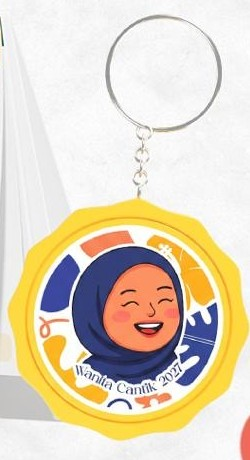
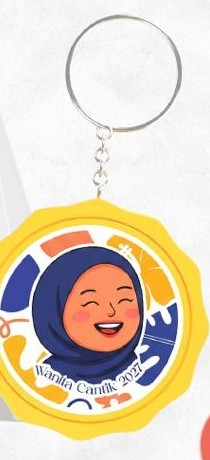
Tambah GIF animasi dan animasi CSS di seluruh laman
GIF produk berkilau, clicker berayun, 4 ikon ciri beranimasi
(dijana oleh tools/make_gifs.py), serta animasi muncul bila skrol,
butang berdenyut, ticker harga dan emoji bergoyang.

Claude-Session: https://claude.ai/code/session_01E2GRzDsEKBQ2HghrFBztbq

diff --git a/index.html b/index.html
@@ -36,7 +36,7 @@
       <h1>Satu kalendar.<br>Semua tarikh penting <span class="script">anda.</span></h1>
       <p class="lead">Haid, qada puasa, cuti sekolah anak, amalan harian, tarikh Hijrah — semuanya tersusun cantik atas meja. Tak perlu lagi buka lima app dan tiga nota untuk ingat satu benda.</p>
       <div class="hero-cta">
-        <a href="#tempah" class="btn">Tempah Combo RM47</a>
+        <a href="#tempah" class="btn pulse">Tempah Combo RM47</a>
         <a href="#kenapa" class="btn btn-ghost">Kenapa kalendar ni?</a>
       </div>
       <ul class="chips">
@@ -47,7 +47,7 @@
       </ul>
     </div>
     <div class="hero-img">
-      <img src="assets/produk.jpg" alt="Kalendar meja Wanita Cantik 2027 bersama keychain clicker" width="790" height="495">
+      <img src="assets/produk.gif" alt="Kalendar meja Wanita Cantik 2027 bersama keychain clicker" width="560" height="351">
       <div class="tag">Cantik luar,<br>tenang dalam.</div>
     </div>
   </div>
@@ -73,7 +73,7 @@
     <h2>Masalahnya bukan anda tak ambil berat.</h2>
     <p>Masalahnya, maklumat penting anda <strong>bersepah</strong>. Haid dalam satu app. Cuti sekolah dalam screenshot grup. Tarikh Hijrah kena Google. Amalan? Dalam kepala je.</p>
     <p>Dan bila semua bersepah, yang jadi mangsa ialah benda paling penting — <strong>ibadah yang tertangguh, qada yang terlupa, rancangan keluarga yang berlanggar.</strong> Setiap tahun azam sama, setiap tahun rasa bersalah yang sama.</p>
-    <p class="hit">2027 tak perlu jadi macam tu lagi.</p>
+    <p class="hit">2027 tak perlu jadi macam tu lagi. <span class="bounce">👇</span></p>
   </div>
 </section>
 
@@ -86,22 +86,22 @@
 
     <div class="features">
       <article class="feat f-coral">
-        <div class="num">01</div>
+        <img class="ico" src="assets/ic-haid.gif" alt="" width="112" height="112" loading="lazy"><div class="num">01</div>
         <h3>Tracker Haid</h3>
         <p>Tanda kitaran terus atas kalendar. Senang kira hari suci, senang jawab soalan doktor, senang kira hutang puasa.</p>
       </article>
       <article class="feat f-green">
-        <div class="num">02</div>
+        <img class="ico" src="assets/ic-cuti.gif" alt="" width="112" height="112" loading="lazy"><div class="num">02</div>
         <h3>Cuti Umum, Negeri &amp; Sekolah</h3>
         <p>Semua cuti 2027 dah siap ditanda. Rancang balik kampung, percutian dan cuti kerja tanpa berlanggar jadual anak.</p>
       </article>
       <article class="feat f-blue">
-        <div class="num">03</div>
+        <img class="ico" src="assets/ic-mutabaah.gif" alt="" width="112" height="112" loading="lazy"><div class="num">03</div>
         <h3>Mutabaah Amal</h3>
         <p>Semak amalan harian — solat, bacaan Quran, zikir, sedekah. Nampak progress depan mata, lebih mudah istiqamah.</p>
       </article>
       <article class="feat f-gold">
-        <div class="num">04</div>
+        <img class="ico" src="assets/ic-hijrah.gif" alt="" width="112" height="112" loading="lazy"><div class="num">04</div>
         <h3>Tarikh Hijrah</h3>
         <p>Tarikh Masihi &amp; Hijrah sebelah-menyebelah. Tak terlepas puasa sunat, Ayyamul Bidh dan hari kebesaran Islam.</p>
       </article>
@@ -135,7 +135,7 @@
       <p>Keychain clicker comel dengan watak Wanita Cantik — sangkut di beg atau kunci, sentiasa ada bila diperlukan. Padankan dengan Mutabaah Amal dalam kalendar untuk rutin harian yang lebih bermakna.</p>
       <p class="price-inline">Beli asing RM17 — <strong>atau dapat lebih jimat dalam Combo.</strong></p>
     </div>
-    <div class="clicker-img"><img src="assets/clicker.jpg" alt="Keychain clicker Wanita Cantik 2027" width="250" height="460" loading="lazy"></div>
+    <div class="clicker-img"><img src="assets/clicker.gif" alt="Keychain clicker Wanita Cantik 2027 berayun" width="260" height="414" loading="lazy"></div>
   </div>
 </section>
 
@@ -144,6 +144,7 @@
   <div class="wrap">
     <p class="eyebrow center">Senarai Harga</p>
     <h2 class="center">Pilih pakej anda</h2>
+    <div class="ticker" aria-hidden="true"><span>🌺 Combo jimat RM5 · 📅 Kalendar 2027 · 📿 Mutabaah Amal · 🌙 Tarikh Hijrah · 🎁 Sesuai jadi hadiah · 🌺 Combo jimat RM5 · 📅 Kalendar 2027 · 📿 Mutabaah Amal · 🌙 Tarikh Hijrah · 🎁 Sesuai jadi hadiah · </span></div>
     <div class="plans">
       <div class="plan">
         <h3>Kalendar Meja</h3>
@@ -152,7 +153,7 @@
         <button class="btn btn-ghost pick" data-pkg="kalendar">Pilih Kalendar</button>
       </div>
       <div class="plan best">
-        <div class="ribbon">Paling Laris · Jimat RM5</div>
+        <div class="ribbon">🔥 Paling Laris · Jimat RM5</div>
         <h3>Combo</h3>
         <div class="price"><s>RM52</s><small>RM</small>47</div>
         <ul><li>Kalendar meja 2027</li><li><strong>+ Clicker Wanita Cantik</strong></li><li>Sesuai dibuat hadiah</li></ul>
@@ -238,7 +239,7 @@
   <div class="wrap narrow center">
     <h2>2027 bakal jadi tahun yang lebih <span class="script">tersusun</span>.</h2>
     <p>Mulakan dengan satu kalendar di atas meja anda.</p>
-    <a href="#tempah" class="btn btn-light">Tempah Combo RM47 Sekarang</a>
+    <a href="#tempah" class="btn btn-light pulse">Tempah Combo RM47 Sekarang</a>
   </div>
 </section>
 

diff --git a/style.css b/style.css
@@ -168,3 +168,38 @@ section{padding:80px 0}
   .btn{transition:none}
   .btn:hover{transform:none}
 }
+
+/* ===== Animasi ===== */
+.ico{width:72px;height:72px;border-radius:16px;mix-blend-mode:multiply;margin-bottom:12px}
+.hero-img img{animation:float 5s ease-in-out infinite}
+.chips li{animation:pop .6s cubic-bezier(.2,.9,.3,1.4) both}
+.chips li:nth-child(2){animation-delay:.15s}.chips li:nth-child(3){animation-delay:.3s}.chips li:nth-child(4){animation-delay:.45s}
+.tag{animation:sway 3s ease-in-out infinite}
+.prob span{display:inline-block;animation:wiggle 2.4s ease-in-out infinite}
+.prob:nth-child(2) span{animation-delay:.4s}.prob:nth-child(3) span{animation-delay:.8s}.prob:nth-child(4) span{animation-delay:1.2s}
+.bounce{display:inline-block;animation:bounce 1.2s ease-in-out infinite}
+.pulse{animation:pulse 2s ease-in-out infinite}
+.ribbon{animation:glow 1.8s ease-in-out infinite}
+.wa-float{animation:ring 3s ease-in-out infinite}
+.ticker{overflow:hidden;white-space:nowrap;margin:18px 0 0;font-weight:600;color:var(--green)}
+.ticker span{display:inline-block;animation:marquee 22s linear infinite}
+.feat,.plan,.prob{transition:transform .25s ease,box-shadow .25s ease}
+.feat:hover,.prob:hover{transform:translateY(-6px);box-shadow:0 14px 30px rgba(29,74,55,.12)}
+.reveal{opacity:0;transform:translateY(24px);transition:opacity .7s ease,transform .7s ease}
+.reveal.in{opacity:1;transform:none}
+@media (min-width:900px){.plan.best.reveal.in{transform:scale(1.04)}}
+
+@keyframes float{0%,100%{transform:translateY(0)}50%{transform:translateY(-12px)}}
+@keyframes pop{from{opacity:0;transform:scale(.6)}to{opacity:1;transform:scale(1)}}
+@keyframes sway{0%,100%{transform:rotate(-4deg)}50%{transform:rotate(2deg)}}
+@keyframes wiggle{0%,60%,100%{transform:rotate(0)}70%{transform:rotate(-14deg) scale(1.15)}80%{transform:rotate(12deg) scale(1.15)}90%{transform:rotate(-6deg)}}
+@keyframes bounce{0%,100%{transform:translateY(0)}50%{transform:translateY(8px)}}
+@keyframes pulse{0%,100%{box-shadow:0 0 0 0 rgba(217,38,43,.45)}70%{box-shadow:0 0 0 14px rgba(217,38,43,0)}}
+@keyframes glow{0%,100%{transform:translateX(-50%) scale(1)}50%{transform:translateX(-50%) scale(1.07)}}
+@keyframes ring{0%,85%,100%{transform:rotate(0)}88%{transform:rotate(-15deg)}91%{transform:rotate(15deg)}94%{transform:rotate(-10deg)}97%{transform:rotate(8deg)}}
+@keyframes marquee{from{transform:translateX(0)}to{transform:translateX(-50%)}}
+
+@media (prefers-reduced-motion:reduce){
+  *,*::before,*::after{animation:none!important;transition:none!important}
+  .reveal{opacity:1;transform:none}
+}

diff --git a/script.js b/script.js
@@ -71,3 +71,13 @@
 
   refresh();
 })();
+
+// Animasi muncul bila skrol
+(function () {
+  var els = document.querySelectorAll('.prob, .feat, .plan, .who-img, .clicker-img, .faq details, .ticks li');
+  if (!('IntersectionObserver' in window) || matchMedia('(prefers-reduced-motion: reduce)').matches) return;
+  var io = new IntersectionObserver(function (es) {
+    es.forEach(function (e) { if (e.isIntersecting) { e.target.classList.add('in'); io.unobserve(e.target); } });
+  }, { threshold: .15 });
+  els.forEach(function (el, i) { el.classList.add('reveal'); el.style.transitionDelay = (i % 4) * 90 + 'ms'; io.observe(el); });
+})();

diff --git a/tools/make_gifs.py b/tools/make_gifs.py
@@ -1,0 +1,116 @@
+"""Jana semua GIF animasi untuk laman. Jalankan: python3 tools/make_gifs.py"""
+import math
+from PIL import Image, ImageDraw, ImageFilter
+
+A = 'assets/'
+CORAL, GREEN, BLUE, GOLD, RED = (232,92,74), (29,74,55), (58,98,181), (227,163,60), (217,38,43)
+WHITE = (255,255,255)
+
+def flat(im, bg=(246,244,241)):
+    """Ratakan tekstur kertas supaya GIF lebih ringan."""
+    px = im.load()
+    for y in range(im.height):
+        for x in range(im.width):
+            r, g, b = px[x, y]
+            if r > 222 and g > 218 and b > 212: px[x, y] = bg
+    return im
+
+def save(frames, path, ms=70, colors=96):
+    ref = frames[0].convert('RGB').quantize(colors=colors, method=Image.Quantize.MEDIANCUT, dither=Image.Dither.NONE)
+    pal = [f.convert('RGB').quantize(palette=ref, dither=Image.Dither.NONE) for f in frames]
+    pal[0].save(path, save_all=True, append_images=pal[1:], duration=ms, loop=0, optimize=True, disposal=2)
+
+def star(d, cx, cy, r, col):
+    k = r * .28
+    d.polygon([(cx,cy-r),(cx+k,cy-k),(cx+r,cy),(cx+k,cy+k),(cx,cy+r),(cx-k,cy+k),(cx-r,cy),(cx-k,cy-k)], fill=col)
+
+# 1. Produk hero: kilauan + bintang berkelip
+def produk():
+    base = Image.open(A+'produk.jpg').convert('RGB')
+    base = flat(base.resize((560, round(base.height*560/base.width)), Image.LANCZOS))
+    W, H = base.size
+    sparks = [(130,35,GOLD),(375,22,CORAL),(525,80,GOLD),(410,220,WHITE),(80,265,BLUE),(490,350,CORAL),(262,335,GOLD)]
+    N = 18; frames = []
+    for i in range(N):
+        t = i / N
+        f = base.copy()
+        # sapuan kilauan pepenjuru
+        shine = Image.new('L', (W, H), 0); sd = ImageDraw.Draw(shine)
+        x = -200 + t * (W + 400)
+        sd.polygon([(x,0),(x+70,0),(x-110,H),(x-180,H)], fill=90)
+        shine = shine.filter(ImageFilter.GaussianBlur(18))
+        f = Image.composite(Image.new('RGB', (W,H), WHITE), f, shine)
+        d = ImageDraw.Draw(f)
+        for j, (sx, sy, c) in enumerate(sparks):
+            s = max(0, math.sin(2*math.pi*(t + j/len(sparks))))
+            if s > .05: star(d, sx, sy, 4 + 12*s, c)
+        frames.append(f)
+    save(frames, A+'produk.gif', 80)
+
+# 2. Clicker berayun
+def clicker():
+    im = Image.open(A+'clicker.jpg').convert('RGB')
+    im = flat(im.resize((180, round(im.height*180/im.width)), Image.LANCZOS))
+    bg = im.getpixel((5, 5))
+    pad = 40
+    canvas = Image.new('RGB', (im.width + pad*2, im.height + 20), bg)
+    canvas.paste(im, (pad, 10))
+    frames = []
+    for i in range(20):
+        ang = 9 * math.sin(2*math.pi*i/20)
+        frames.append(canvas.rotate(ang, resample=Image.BICUBIC, center=(canvas.width/2, 22), fillcolor=bg))
+    save(frames, A+'clicker.gif', 70)
+
+# 3. Ikon ciri (dilukis 2x, kecilkan ke 112px)
+S = 224
+def icon(draw_fn, path, n=20, bg=WHITE):
+    frames = []
+    for i in range(n):
+        f = Image.new('RGB', (S, S), bg); draw_fn(ImageDraw.Draw(f), i/n)
+        frames.append(f.resize((112,112), Image.LANCZOS))
+    save(frames, path, 80)
+
+def cal_frame(d, col):
+    d.rounded_rectangle((32,48,192,196), 18, fill=WHITE, outline=col, width=8)
+    d.rectangle((36,52,188,84), fill=col)
+    for x in (72,152): d.rounded_rectangle((x-6,32,x+6,64), 6, fill=GREEN)
+
+def haid(d, t):
+    cal_frame(d, CORAL)
+    lit = int(t*10)
+    for k in range(9):
+        cx, cy = 66 + (k%3)*46, 110 + (k//3)*28
+        d.ellipse((cx-10,cy-10,cx+10,cy+10), fill=CORAL if k < lit else (240,228,224))
+    s = 1 + .15*math.sin(2*math.pi*t*2)
+    cx, cy, r = 178, 168, 26*s
+    d.ellipse((cx-r, cy-r*.6, cx+r, cy+r*1.2), fill=RED)
+    d.polygon([(cx-r*.75, cy), (cx+r*.75, cy), (cx, cy-r*1.6)], fill=RED)
+
+def cuti(d, t):
+    cal_frame(d, GREEN)
+    hi = int(t*6) % 6
+    for k in range(6):
+        cx, cy = 70 + (k%3)*42, 118 + (k//3)*42
+        if k == hi: d.ellipse((cx-17,cy-17,cx+17,cy+17), fill=GOLD)
+        d.rectangle((cx-7,cy-7,cx+7,cy+7), fill=GREEN if k != hi else WHITE)
+    y = 20 + 8*math.sin(2*math.pi*t)
+    d.polygon([(176,y+20),(212,y+38),(176,y+56)], fill=CORAL); d.line((176,y+16,176,y+92), fill=GREEN, width=6)
+
+def mutabaah(d, t):
+    d.rounded_rectangle((40,28,184,200), 18, fill=WHITE, outline=BLUE, width=8)
+    done = int(t*5)
+    for k in range(4):
+        y = 62 + k*36
+        d.rounded_rectangle((60,y-12,84,y+12), 6, outline=BLUE, width=5, fill=BLUE if k < done else WHITE)
+        if k < done: d.line([(65,y),(71,y+7),(80,y-7)], fill=WHITE, width=5)
+        d.rounded_rectangle((98,y-5,164,y+5), 5, fill=(200,212,238))
+
+def hijrah(d, t):
+    d.ellipse((50,40,170,160), fill=GOLD); d.ellipse((82,28,192,138), fill=WHITE)
+    for j, (x, y) in enumerate([(160,140),(190,80),(120,180),(60,180)]):
+        s = max(0, math.sin(2*math.pi*(t + j/4)))
+        star(d, x, y, 5 + 14*s, GOLD if j % 2 else BLUE)
+
+produk(); clicker()
+icon(haid, A+'ic-haid.gif'); icon(cuti, A+'ic-cuti.gif'); icon(mutabaah, A+'ic-mutabaah.gif'); icon(hijrah, A+'ic-hijrah.gif')
+print('siap')
